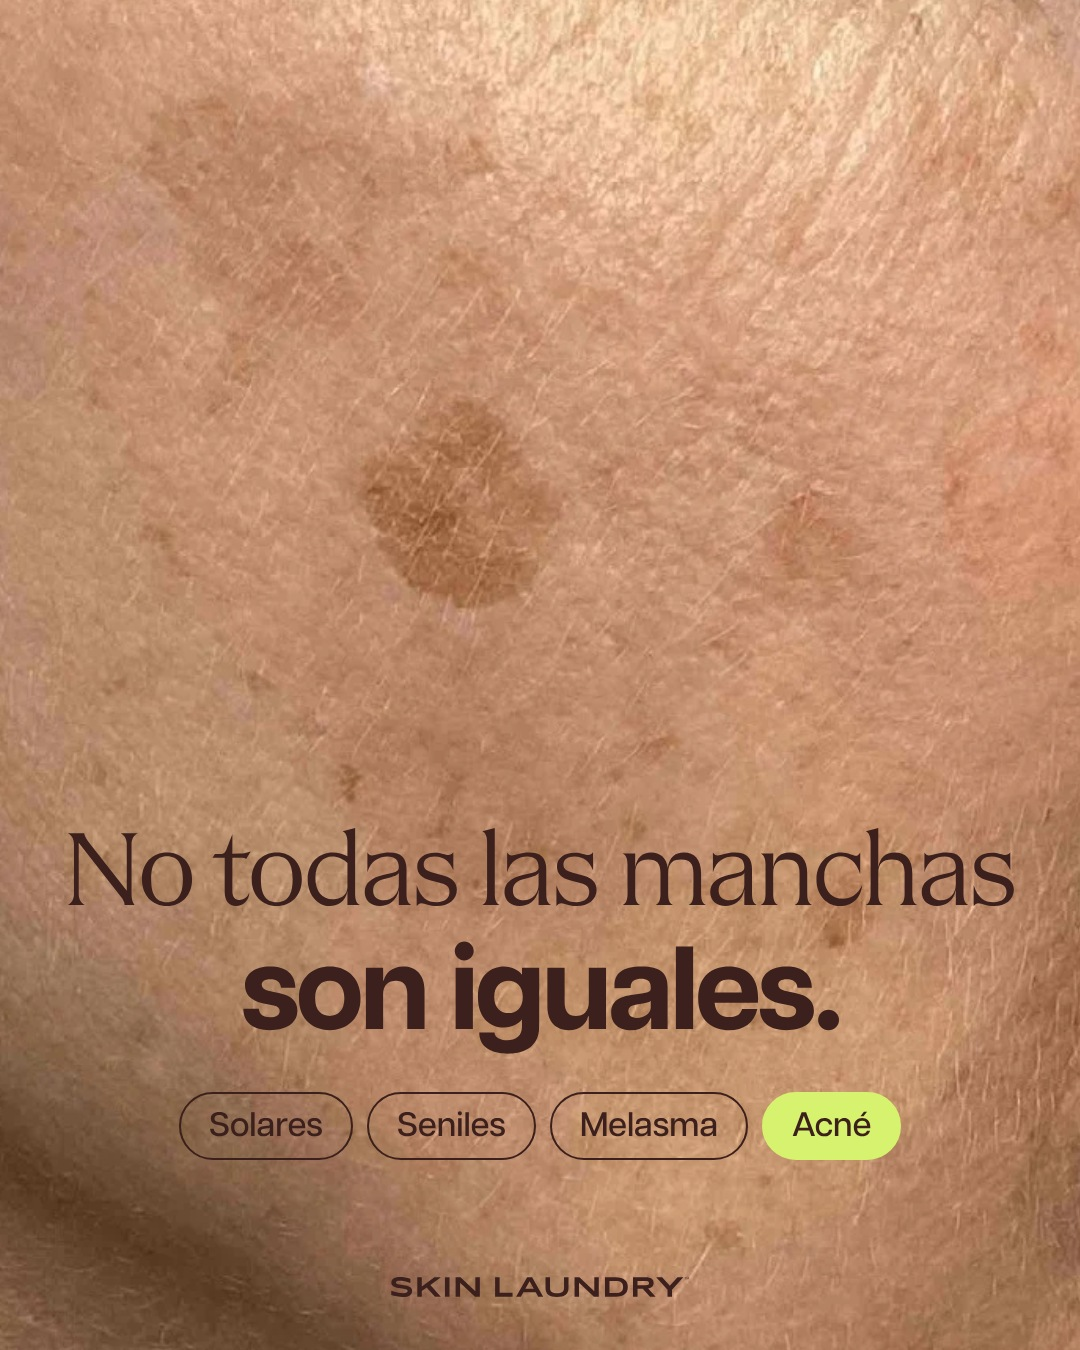
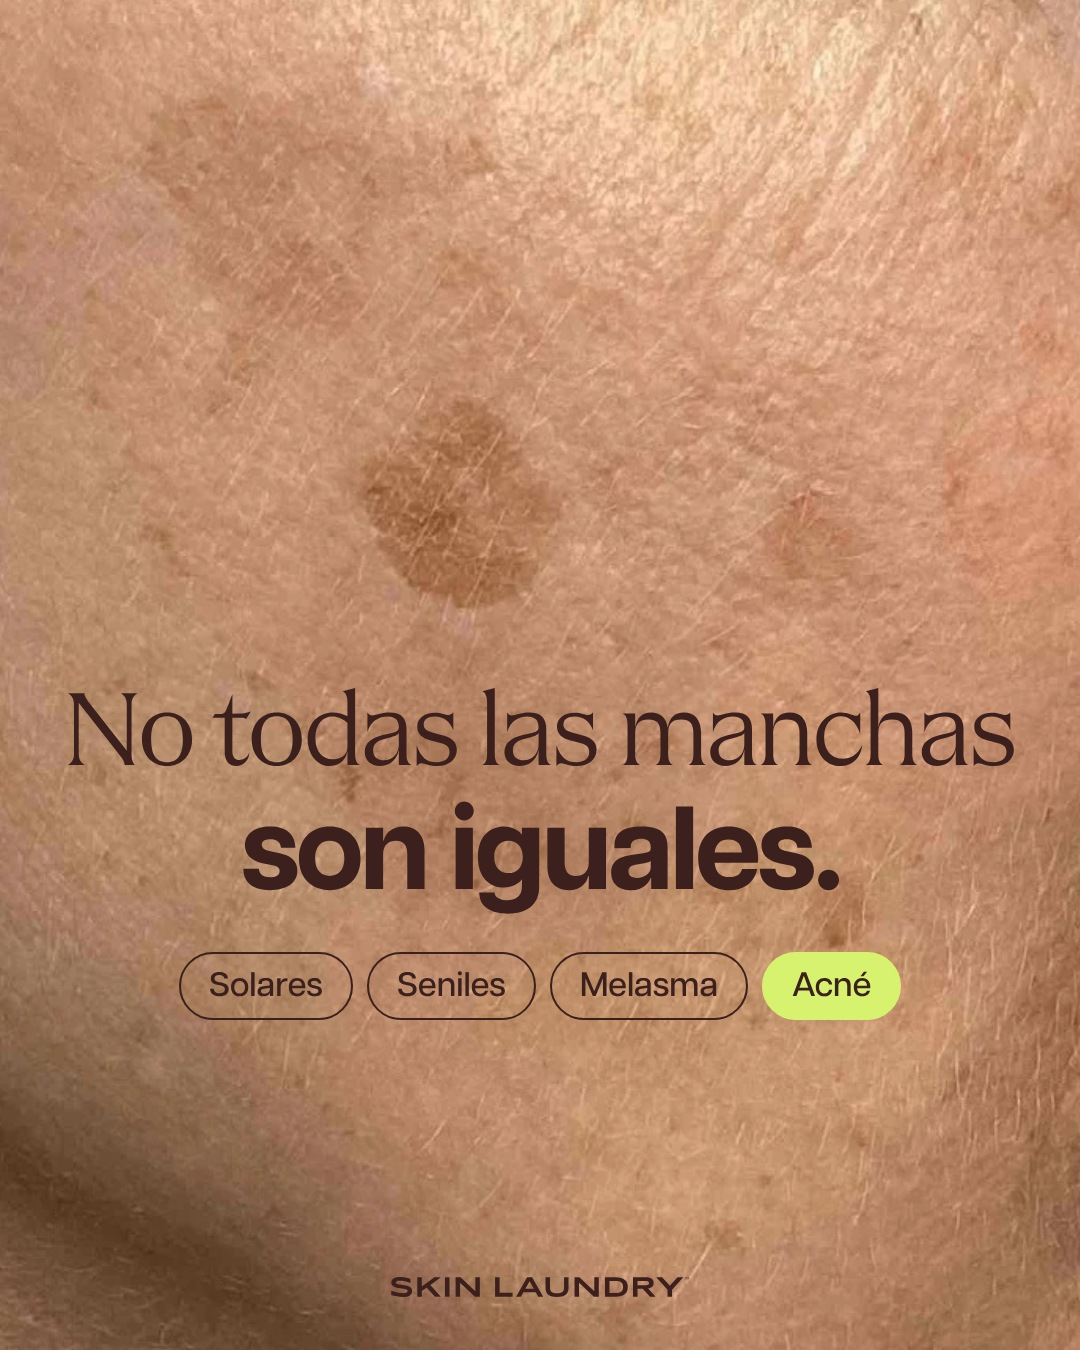
Skin Laundry: portada 27 con el texto más arriba
Claude-Session: https://claude.ai/code/session_01JZ4qrB4vBJCM1LriYw1bZU

diff --git a/public/pitch/skin-laundry-calendario/noviembre/index.html b/public/pitch/skin-laundry-calendario/noviembre/index.html
@@ -800,7 +800,7 @@ Te esperamos hoy [de X a X h] en Diagonal 610. Ven sola o acompañada.
 📍 Av. Diagonal 610, Barcelona
 #Ultraformer #OpenDay #LiftingSinCirugia #HIFU #SkinLaundryBarcelona` },
 
-{ d:27, formato:"Carrusel", estado:"listo", media:"/pitch/skin-laundry-calendario/noviembre/img/d27_1_v2.jpg?v=11191304", slides:["/pitch/skin-laundry-calendario/noviembre/img/d27_1_v2.jpg?v=11191304","/pitch/skin-laundry-calendario/noviembre/img/drive-d27_2.jpg?v=11191215","/pitch/skin-laundry-calendario/noviembre/img/drive-d27_3.jpg?v=11191215","/pitch/skin-laundry-calendario/noviembre/img/d27_4_v2.jpg?v=11191215"], cubo:"Láser", tema:"Manchas", hora:"13:30h",
+{ d:27, formato:"Carrusel", estado:"listo", media:"/pitch/skin-laundry-calendario/noviembre/img/d27_1_v2.jpg?v=11191306", slides:["/pitch/skin-laundry-calendario/noviembre/img/d27_1_v2.jpg?v=11191306","/pitch/skin-laundry-calendario/noviembre/img/drive-d27_2.jpg?v=11191215","/pitch/skin-laundry-calendario/noviembre/img/drive-d27_3.jpg?v=11191215","/pitch/skin-laundry-calendario/noviembre/img/d27_4_v2.jpg?v=11191215"], cubo:"Láser", tema:"Manchas", hora:"13:30h",
   pieza:"Tipos de manchas y qué hay", base:"Doc §3 (ampliar)", cta:"Reserva tu valoración",
   nota:"Diseño listo (quitada la frase de Black Friday) · confirmar el «desde 600 €» del plan combinado, que no está en la carta",
   idea:["Portada: «No todas las manchas son iguales»","Solares y seniles: cómo son, dónde, qué hay","Melasma y marcas de acné: las que más confunden","Spotless, Brightening o plan combinado + Reserva tu valoración"],
